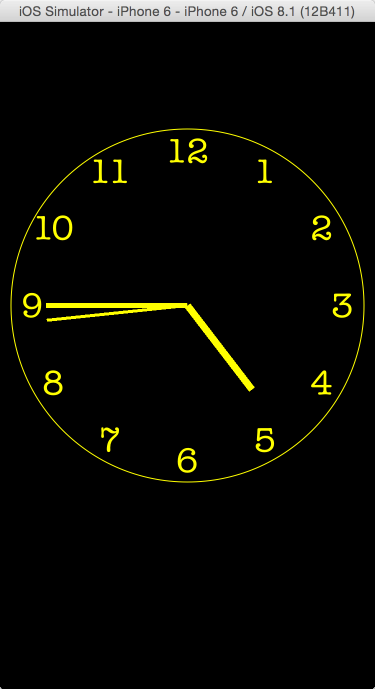
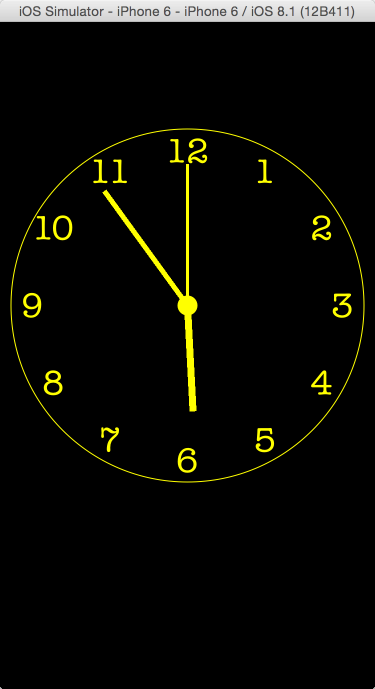
添加了表盘中心点

Changed region(s): [[0.1173, 0.2438, 0.6747, 0.6096], [0.352, 0.3353, 0.44, 0.3962], [0.264, 0.2743, 0.352, 0.3353]]

diff --git a/GKClockExample/GKClock/GKClock.m b/GKClockExample/GKClock/GKClock.m
@@ -34,13 +34,12 @@
         _minuteHandColor = [UIColor lightGrayColor];
         _secondHandColor = [UIColor redColor];
         
-
-        
         _momentAttribute = @{NSFontAttributeName : [UIFont fontWithName:@"American Typewriter" size:40],
                              NSForegroundColorAttributeName : [UIColor whiteColor]};
         
         _momentList = @[@"12" ,@"1", @"2", @"3", @"4", @"5", @"6", @"7", @"8", @"9", @"10", @"11"];
         
+        _centerPointColor = [UIColor lightGrayColor];
         _calendar = [NSCalendar currentCalendar];
         
         [self initTimer];
@@ -76,7 +75,7 @@
     CGContextDrawPath(context, kCGPathFillStroke);
     
     NSArray *momentPointList = [self momentRectList];
-    //draw moment
+    //绘制表盘刻度
     for (NSInteger i = 0; i < _momentList.count; i++) {
         NSString *momentStr = _momentList[i];
         CGPoint momentPoint = [momentPointList[i] CGPointValue];
@@ -84,7 +83,7 @@
     }
     //    CGContextRelease(context);
     
-    //draw clock hand and add
+    //绘制表盘指针
     [self drawClockHand];
 }
 
@@ -92,12 +91,14 @@
     UIImage *hourHandImage = [self drawHourHand];
     UIImage *minuteHandImage = [self drawMinuteHand];
     UIImage *secondHandImage = [self drawSecondHand];
+    UIImage *centerPointImage = [self drawCenterPoint];
     
     CGSize hourHandSize = hourHandImage.size;
     CGSize minuteHandSize = minuteHandImage.size;
     CGSize secondHandSize = secondHandImage.size;
+    CGSize centerPointSize = centerPointImage.size;
     
-    //add hour hand
+    //添加时针到表盘
     _hourHand = [[UIImageView alloc] initWithImage:hourHandImage];
     _hourHand.contentMode = UIViewContentModeTop;
     _hourHand.frame = CGRectMake(CGRectGetWidth(self.frame)/2 - hourHandSize.width/2,
@@ -106,7 +107,7 @@
                                  hourHandSize.height * 2);
     [self addSubview:_hourHand];
     
-    //add minute hand
+    //添加分针到表盘
     _minuteHand = [[UIImageView alloc] initWithImage:minuteHandImage];
     _minuteHand.contentMode = UIViewContentModeTop;
     _minuteHand.frame = CGRectMake(CGRectGetWidth(self.frame)/2 - minuteHandSize.width / 2,
@@ -115,7 +116,7 @@
                                    minuteHandSize.height * 2);
     [self addSubview:_minuteHand];
     
-    //add second hand
+    //添加秒针到表盘
     _secondHand = [[UIImageView alloc] initWithImage:secondHandImage];
     _secondHand.contentMode = UIViewContentModeTop;
     _secondHand.frame = CGRectMake(CGRectGetWidth(self.frame)/2 - secondHandSize.width / 2,
@@ -124,6 +125,12 @@
                                    secondHandSize.height * 2);
     [self addSubview:_secondHand];
     
+    //添加中心圆点到表盘
+    UIImageView *centerImageView = [[UIImageView alloc] initWithImage:centerPointImage];
+    centerImageView.contentMode = UIViewContentModeCenter;
+    centerImageView.frame = CGRectMake(0, 0, centerPointSize.width, centerPointSize.height);
+    centerImageView.center = CGPointMake(CGRectGetWidth(self.frame)/2, CGRectGetHeight(self.frame)/2);
+    [self addSubview:centerImageView];
     
 }
 
@@ -160,12 +167,24 @@
     return image;
 }
 
+- (UIImage *)drawCenterPoint{
+    CGSize centerPointSize = CGSizeMake(20.f, 20.f);
+    UIGraphicsBeginImageContextWithOptions(centerPointSize, NO, [UIScreen mainScreen].scale);
+    UIBezierPath *bPath = [UIBezierPath bezierPathWithRoundedRect:CGRectMake(0, 0, centerPointSize.width, centerPointSize.height)
+                                                     cornerRadius:centerPointSize.height/2];
+    [_centerPointColor setFill];
+    [bPath fill];
+    UIImage *image = UIGraphicsGetImageFromCurrentImageContext();
+    UIGraphicsEndImageContext();
+    return image;
+}
+
 - (NSArray *)momentRectList{
     NSMutableArray *pointList = [NSMutableArray array];
     CGRect maxfontRect = [_momentList[0] boundingRectWithSize:CGSizeMake(_radius, MAXFLOAT)
-                                                   options:0
-                                                attributes:_momentAttribute
-                                                   context:nil];
+                                                      options:0
+                                                   attributes:_momentAttribute
+                                                      context:nil];
     CGFloat samllerRadius = _radius - MAX(maxfontRect.size.width/2, maxfontRect.size.height/2);
     for (NSInteger i = 0; i < 12; i++) {
         NSString *momentStr = _momentList[i];

diff --git a/GKClockExample/ViewController.m b/GKClockExample/ViewController.m
@@ -17,21 +17,23 @@
 
 - (void)viewDidLoad {
     [super viewDidLoad];
-    // Do any additional setup after loading the view, typically from a nib.
     self.view.backgroundColor = [UIColor blackColor];
     
     self.clock = [[GKClock alloc] init];
     self.clock.frame = CGRectMake(10.f, 0.f, self.view.frame.size.width - 20.f, self.view.frame.size.height - 100.f);
+    [self.view addSubview:self.clock];
+    [self.clock start];
     
+    //自定义样式
     self.clock.layer.borderColor = [UIColor yellowColor].CGColor;
     self.clock.minuteHandColor = [UIColor yellowColor];
     self.clock.hourHandColor = [UIColor yellowColor];
     self.clock.secondHandColor = [UIColor yellowColor];
     self.clock.clockBorderColor = [UIColor yellowColor];
+    self.clock.centerPointColor = [UIColor yellowColor];
     self.clock.momentAttribute = @{NSFontAttributeName : [UIFont fontWithName:@"American Typewriter" size:35],
                                    NSForegroundColorAttributeName : [UIColor yellowColor]};
-    [self.view addSubview:self.clock];
-    [self.clock start];
+    
     
     UIButton *switchButton =  [UIButton buttonWithType:UIButtonTypeCustom];
     switchButton.layer.borderWidth = 1.f;
@@ -41,7 +43,7 @@
     [switchButton setTitle:@"Start" forState:UIControlStateNormal];
     [switchButton setTitle:@"Stop" forState:UIControlStateSelected];
     [switchButton setTitleColor:[UIColor yellowColor] forState:UIControlStateNormal];
-    [self.view addSubview:switchButton];
+//    [self.view addSubview:switchButton];
 }
 
 - (void)switchButtongClick:(UIButton *)sender{

diff --git a/GKClockExample/GKClock/GKClock.h b/GKClockExample/GKClock/GKClock.h
@@ -9,18 +9,27 @@
 
 @interface GKClock : UIView
 
-@property (nonatomic, strong) UIColor *clockTintColor;
-@property (nonatomic, assign) CGFloat clockBorderWidth;
-@property (nonatomic, strong) UIColor *clockBorderColor;
+@property (nonatomic, strong) UIColor *clockTintColor;      //钟表表盘背景颜色
+@property (nonatomic, assign) CGFloat clockBorderWidth;     //钟表边框宽度
+@property (nonatomic, strong) UIColor *clockBorderColor;    //钟表边框颜色
 
-@property (nonatomic, strong) UIColor *hourHandColor;
-@property (nonatomic, strong) UIColor *minuteHandColor;
-@property (nonatomic, strong) UIColor *secondHandColor;
+@property (nonatomic, strong) UIColor *hourHandColor;       //时针颜色
+@property (nonatomic, strong) UIColor *minuteHandColor;     //分针颜色
+@property (nonatomic, strong) UIColor *secondHandColor;     //秒针颜色
 
-@property (nonatomic, strong) NSDictionary *momentAttribute;
-@property (nonatomic, strong) NSArray *momentList;
+@property (nonatomic, strong) NSDictionary *momentAttribute;    //刻度文字属性
+@property (nonatomic, strong) NSArray *momentList;              //刻度文字列表
 
+@property (nonatomic, strong) UIColor *centerPointColor;        //中心点的颜色
+
+/**
+ *  开始摆动
+ */
 - (void)start;
+
+/**
+ *  停止摆动
+ */
 - (void)stop;
 
 @end
